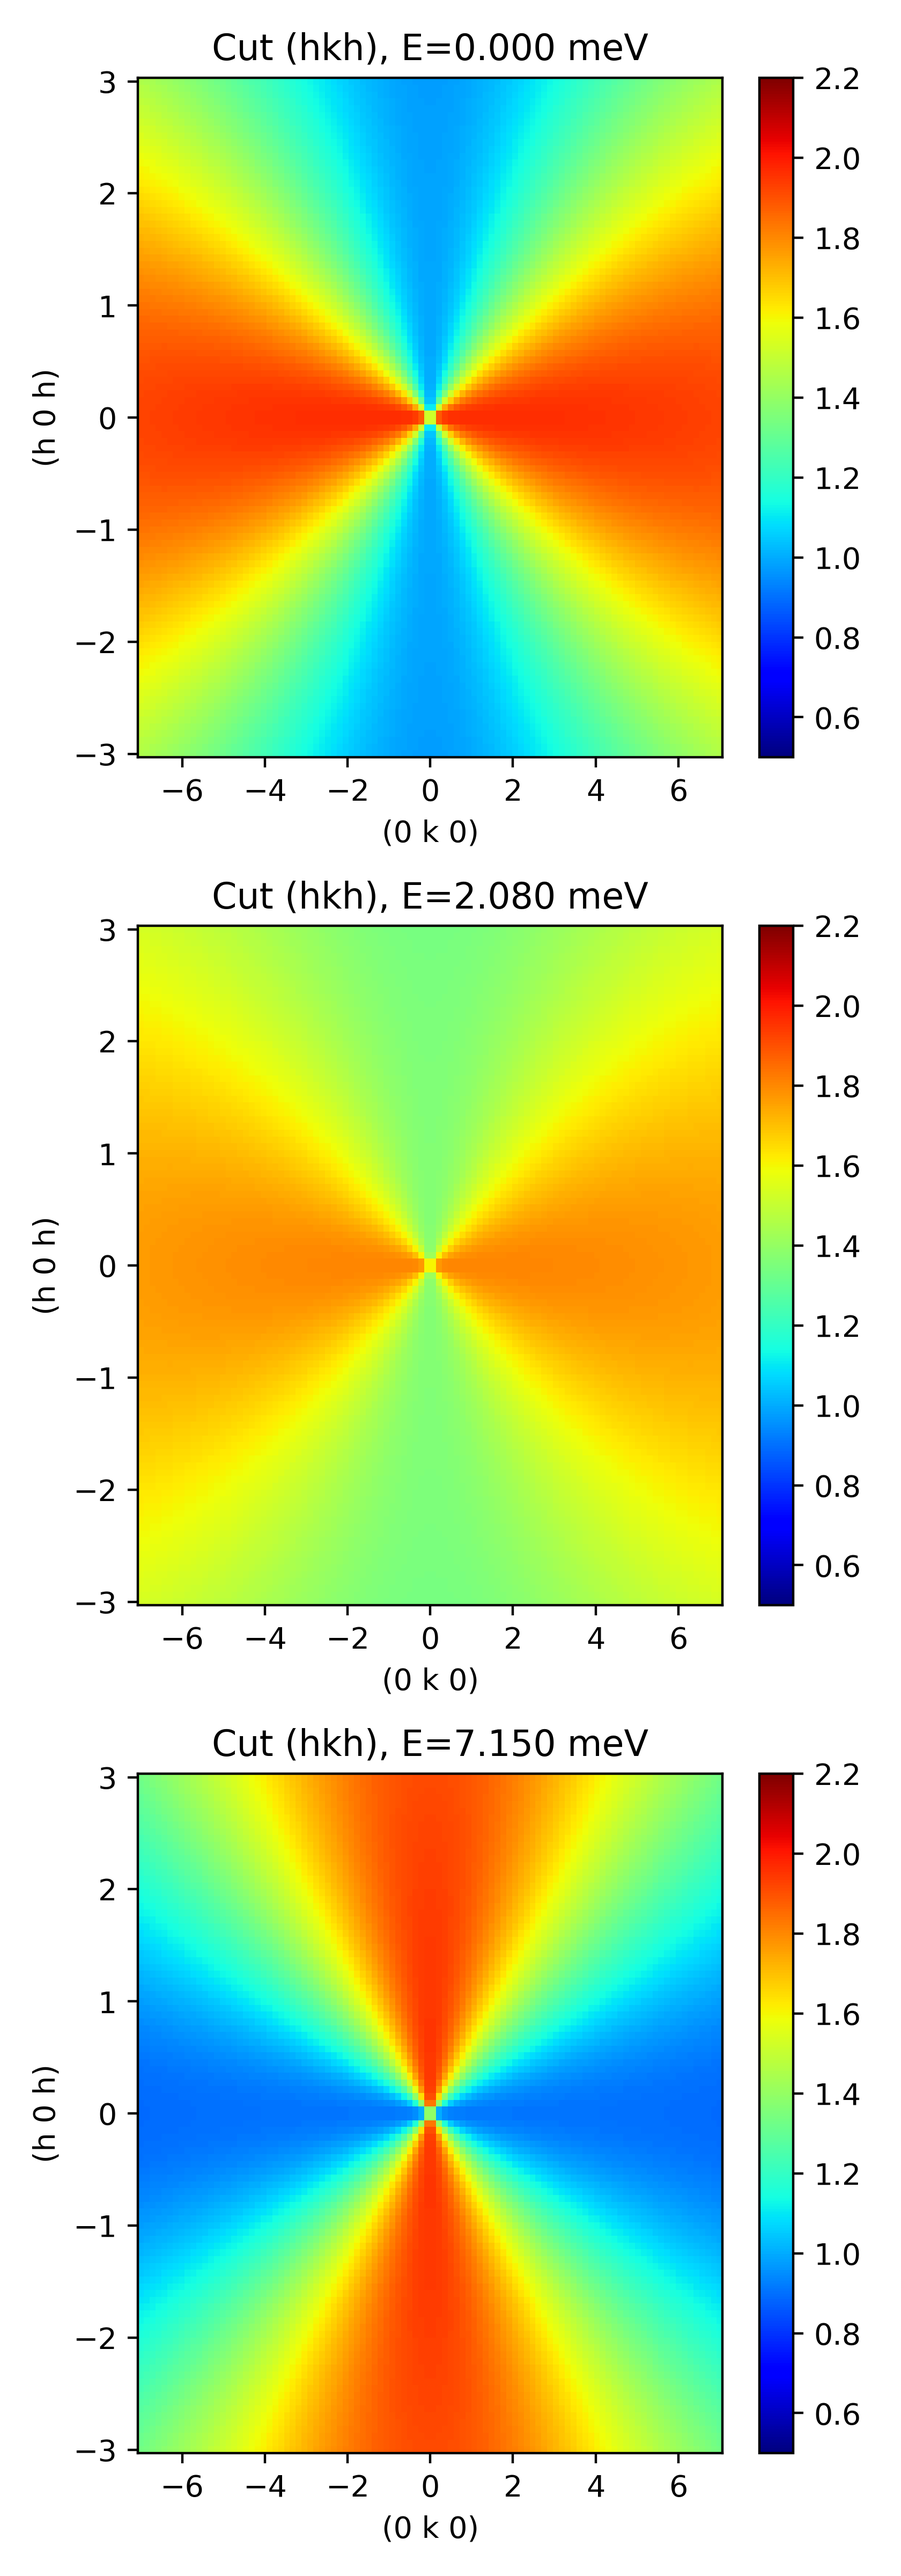
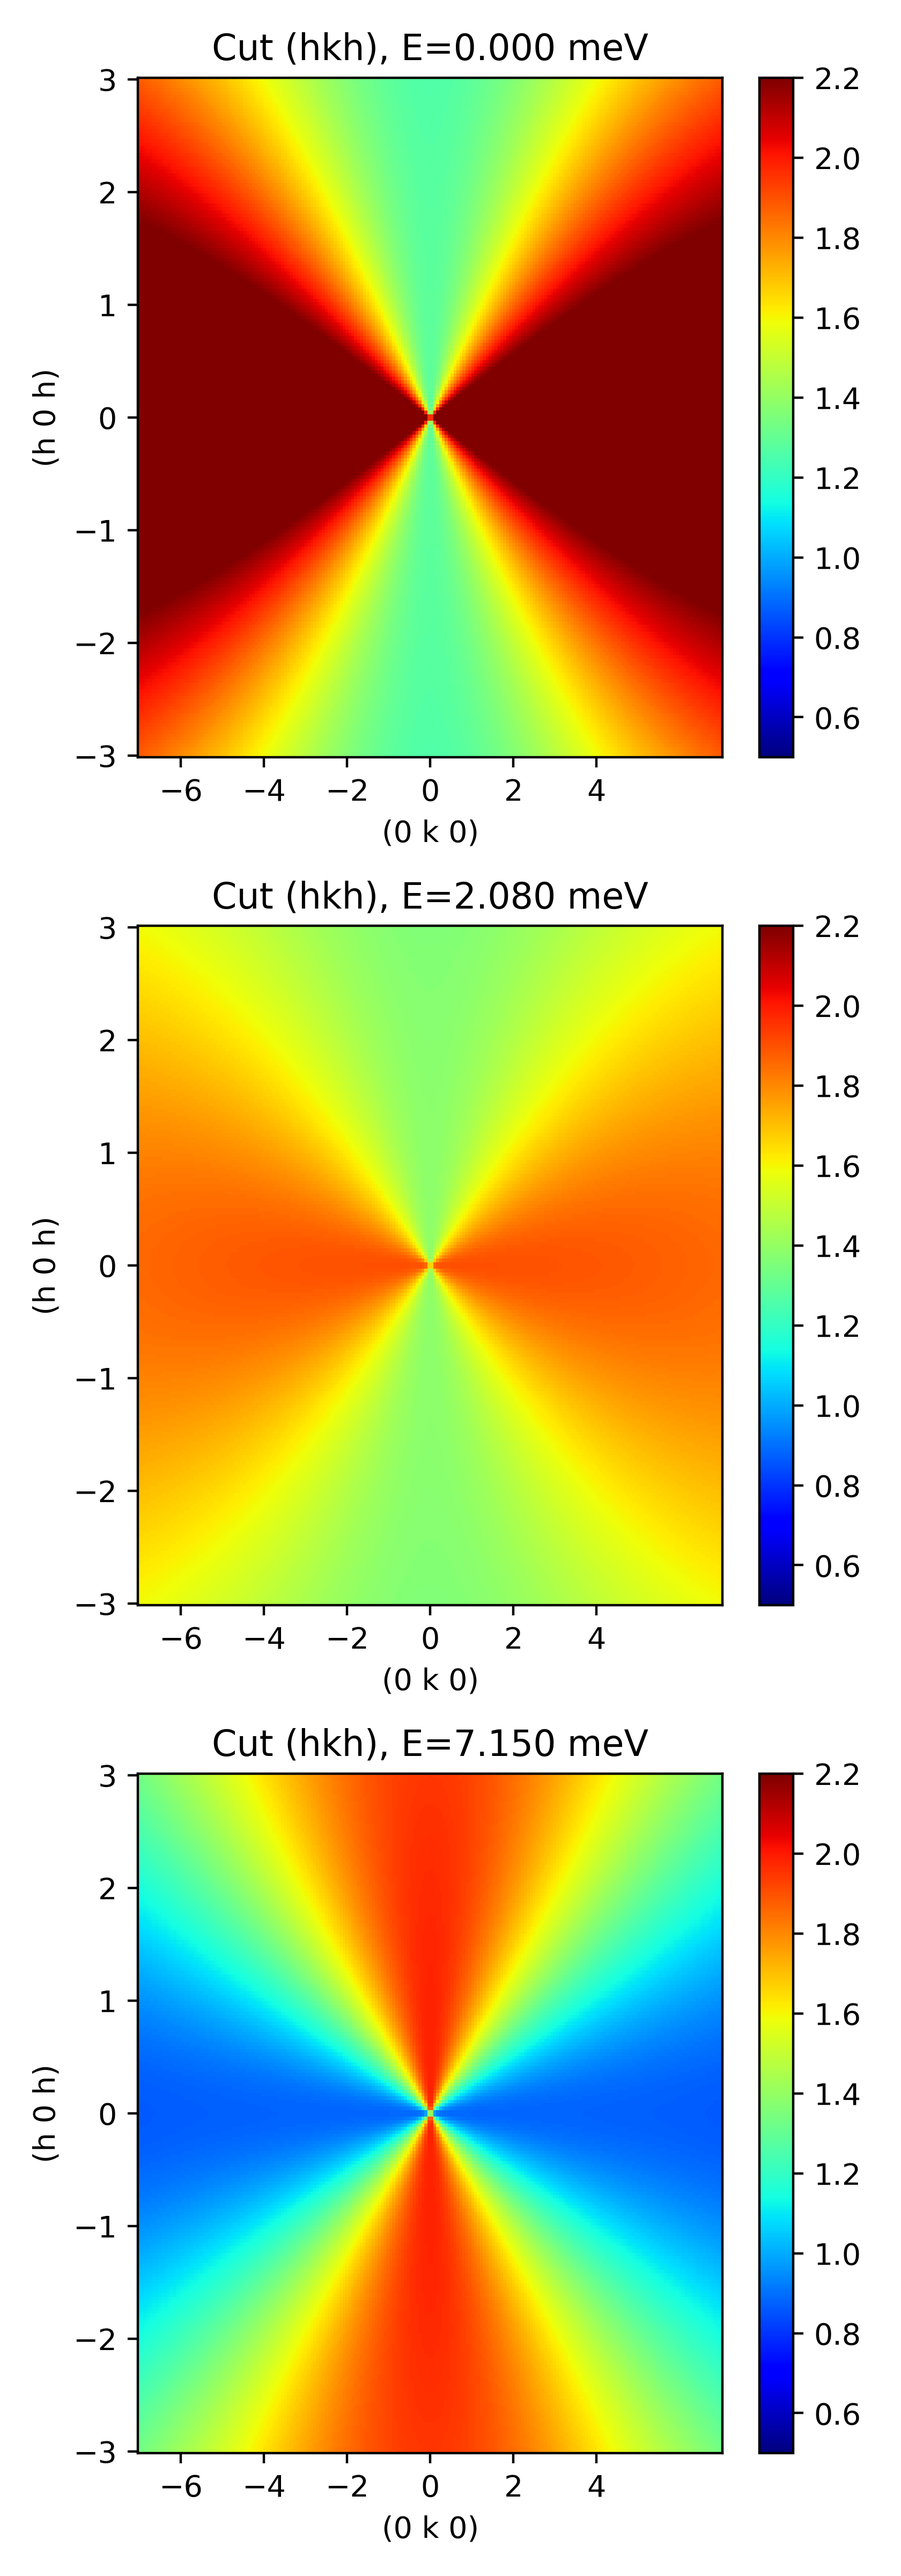
Fix CePdAl3 example

Changed region(s): [[0.1548, 0.0312, 0.8048, 0.3125], [0.1548, 0.3438, 0.8048, 0.625], [0.4333, 0.7812, 0.5262, 0.875]]

diff --git a/examples/CePdAl3-analysis.py b/examples/CePdAl3-analysis.py
@@ -18,19 +18,13 @@ calculateTAS = False
 calculateTOF = True
 
 
-# Following calculation is to cross check the calculations for the orthorhombic case with Ce
-# Source: Klicpera et al, PHYSICAL REVIEW B 95, 085107 (2017)
-#cefion_CePd2Ga2 = ms.crysfipy.CEFion(ms.crysfipy.Ion('Ce'),[0,0,0], ["o", 0.33, 0.472, -0.009, 0.111, 0.055])
-
-# Published results:  E1=7.2 meV,   E2=12.2 meV
-# Calculated results: E1=7.091 meV, E2=11.772 meV
-
 def fit_CEF_pars(CEFparameters, constraints):
     def residuals(CEFpars,constraints):
         energy_levels = constraints[:6]
         Iratios = constraints[6:]
         try:
-            cefion_CePdAl3 = ms.crysfipy.CEFion(ms.crysfipy.Ion('Ce'),[0,0,0], ['o', *CEFpars])
+            CEFpars = ms.crysfipy.CEFpars('D4', CEFparameters, 'meV')
+            cefion_CePdAl3 = ms.crysfipy.CEFion(ms.crysfipy.Ion('Ce'),[0,0,0], CEFpars)
 
             # Matching to the measured energy
             energy_resd = cefion_CePdAl3.energies-energy_levels
@@ -38,7 +32,7 @@ def fit_CEF_pars(CEFparameters, constraints):
             # Matching the measured intensity
             Irat = []
             for hkl in [[2,2,0],[0,0,4]]:
-                De, Dint = ms.crysfipy.neutronint(cefion_CePdAl3,10, Q=lattice.hkl2k(hkl), Ei=25, scheme='single-crystal')
+                De, Dint = ms.crysfipy.neutronint(cefion_CePdAl3,10, Q=lattice.hkl2Q(hkl), Ei=99, scheme='single-crystal')
                 E1 = cefion_CePdAl3.energies[2] # should be the 2.08 meV transition
                 E2 = cefion_CePdAl3.energies[4] # should be the 7.15 meV transition
                 I = [0,0]
@@ -79,8 +73,9 @@ initial_Bij = [1.98770910e-01, 1.51547490e-01, 3.82500000e-03, 3.70048800e-02, 1
 
 
 fit_Bij, score = fit_CEF_pars(initial_Bij, constraints=[0,0,2.08,2.08,7.15,7.15,2,0.8])
+fitted_CEFpars = ms.crysfipy.CEFpars('C2v', fit_Bij, 'meV')
 
-cefion_CePdAl3 = ms.crysfipy.CEFion(ms.crysfipy.Ion('Ce'),[0,0,0], ['o', *fit_Bij])
+cefion_CePdAl3 = ms.crysfipy.CEFion(ms.crysfipy.Ion('Ce'),[0,0,0], fitted_CEFpars)
 
 print('Bfit:',fit_Bij, score)
 print(cefion_CePdAl3.cfp)
@@ -111,7 +106,7 @@ if calculateTTAS:
         label = f'T={temperature:3d} K'
         
         for hkl in [[2,2,0]]:
-            Q = lattice.hkl2k(hkl)
+            Q = lattice.hkl2Q(hkl)
             De, Dint = ms.crysfipy.neutronint(cefion_CePdAl3,temperature, Q=Q, Ei=1.1*np.max(e), scheme='single-crystal')
            
             
@@ -146,11 +141,11 @@ if calculateTAS:
         
         if isinstance(hkl,str):
             label = f'powder average'
-            Q = lattice.hkl2k([2,2,0])
+            Q = lattice.hkl2Q([2,2,0])
             De, Dint = ms.crysfipy.neutronint(cefion_CePdAl3,temperature, Q=ms.norm(Q), Ei=1.1*np.max(e), scheme='powder')
         else:
             label = f'Q=({hkl[0]} {hkl[2]} {hkl[1]})'
-            Q = lattice.hkl2k(hkl)
+            Q = lattice.hkl2Q(hkl)
             De, Dint = ms.crysfipy.neutronint(cefion_CePdAl3,temperature, Q=Q, Ei=1.1*np.max(e), scheme='single-crystal')
        
         
@@ -168,6 +163,7 @@ if calculateTAS:
     fig.savefig('CePdAl3-TAS-spectra.png', dpi=400)
     
 if calculateTOF:
+    print('Preparing TOF plots')
     fig, ax = plt.subplots(nrows=3, figsize=(4.2,12), tight_layout=True)
 
     e = np.linspace(-10,40,1000)
@@ -181,7 +177,7 @@ if calculateTOF:
     ind1 = np.linspace(-1,1,N)*3
     ind2 = np.linspace(-1,1,N)*7
     
-    Qs = lattice.hkl2k([[h,h,k] for h in ind1 for k in ind2])
+    Qs = lattice.hkl2Q([[h,h,k] for h in ind1 for k in ind2])
 
     for Q in Qs:
         De, Dint = ms.crysfipy.neutronint(cefion_CePdAl3,temperature,Q, Ei=15, scheme='single-crystal')
@@ -206,4 +202,4 @@ if calculateTOF:
         ax[it].xaxis.set_major_locator(ticker.FixedLocator([-6,-4,-2,0,2,4,6]))
 
     #ax.legend()
-    fig.savefig('CePdAl3-TOF-spectra.png', dpi=400)
+    fig.savefig('.\examples\CePdAl3-TOF-spectra.png', dpi=400)
